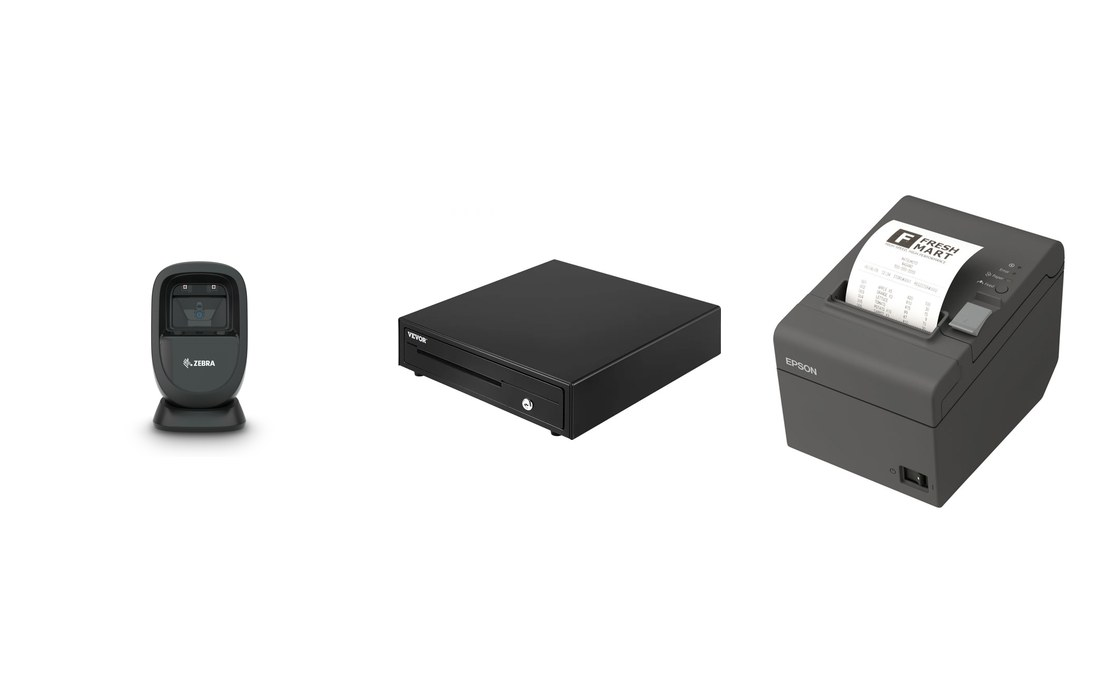
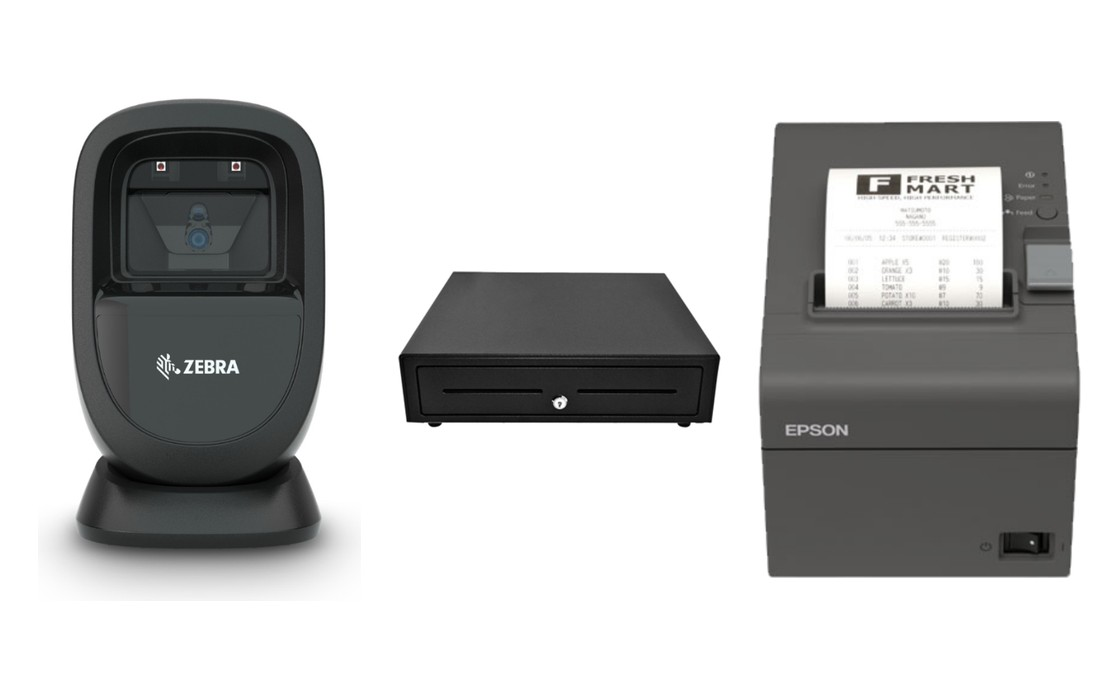
Hardware: new kit-bundle hero + rebuilt accessories collage
- kit-bundle slot now uses the full bundle hero photo: Delt Register
  on top of cash drawer, flanked by Zebra scanner and Epson printer
  (Untitled-design-83.jpg). Reads as 'here's the whole bundle'.
- use-restaurant stays on register-delt.jpg (standalone Delt register
  on stand) so the register exists both on its own AND as part of
  the bundle.
- kit-accessories collage rebuilt with the new clean scanner/drawer/
  printer standalone shots. White-trimmed and height-normalized so
  all three accessories read at the same visual weight.

Changed region(s): [[0.3438, 0.15, 0.9688, 0.84], [0.0312, 0.12, 0.3125, 0.84], [0.4688, 0.36, 0.5312, 0.39]]

diff --git a/src/app/pages/HardwarePage.tsx b/src/app/pages/HardwarePage.tsx
@@ -47,6 +47,7 @@ import imgKiosk           from '@/app/assets/hardware/kiosk.jpg';
 import imgReader          from '@/app/assets/hardware/reader-contactless.jpg';
 import imgTapToPay        from '@/app/assets/hardware/tap-to-pay.jpg';
 import imgKitAccessories  from '@/app/assets/hardware/kit-accessories.jpg';
+import imgKitBundle       from '@/app/assets/hardware/kit-bundle.jpg';
 import imgUseServices     from '@/app/assets/hardware/use-services.jpg';
 
 const SLOT_IMAGES: Record<string, string> = {
@@ -65,7 +66,7 @@ const SLOT_IMAGES: Record<string, string> = {
   'compare-reader':             imgReader,
   'tap-to-pay':                 imgTapToPay,
   // Customize-setup section
-  'kit-bundle':                 imgRegisterDelt,
+  'kit-bundle':                 imgKitBundle,
   'kit-accessories':            imgKitAccessories,
   // Use-case section
   'use-restaurant':             imgRegisterDelt, // recolored Delt register on stand
